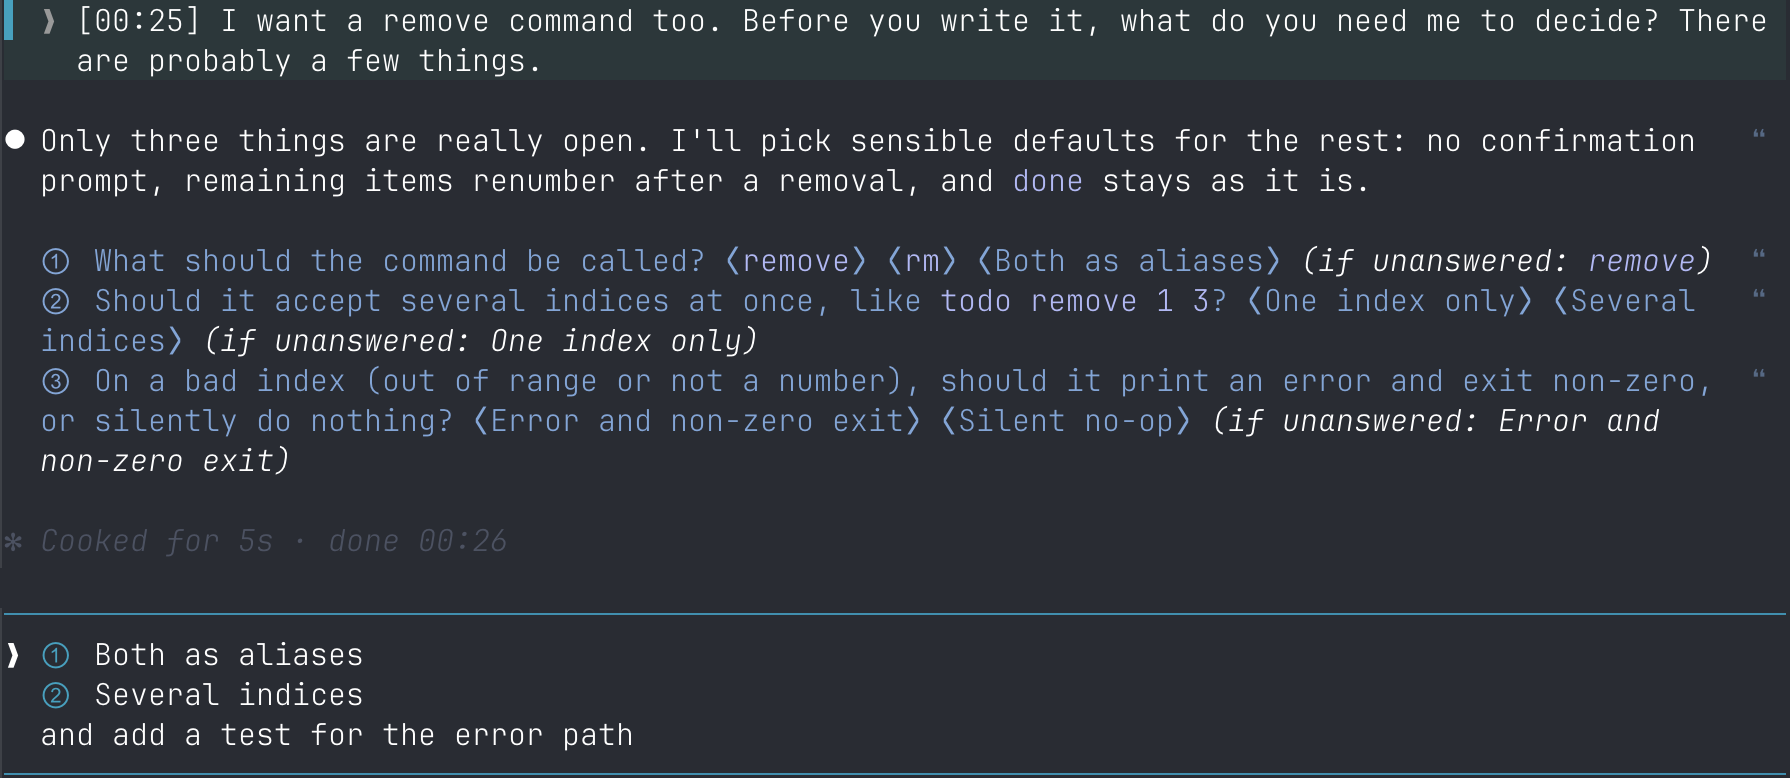
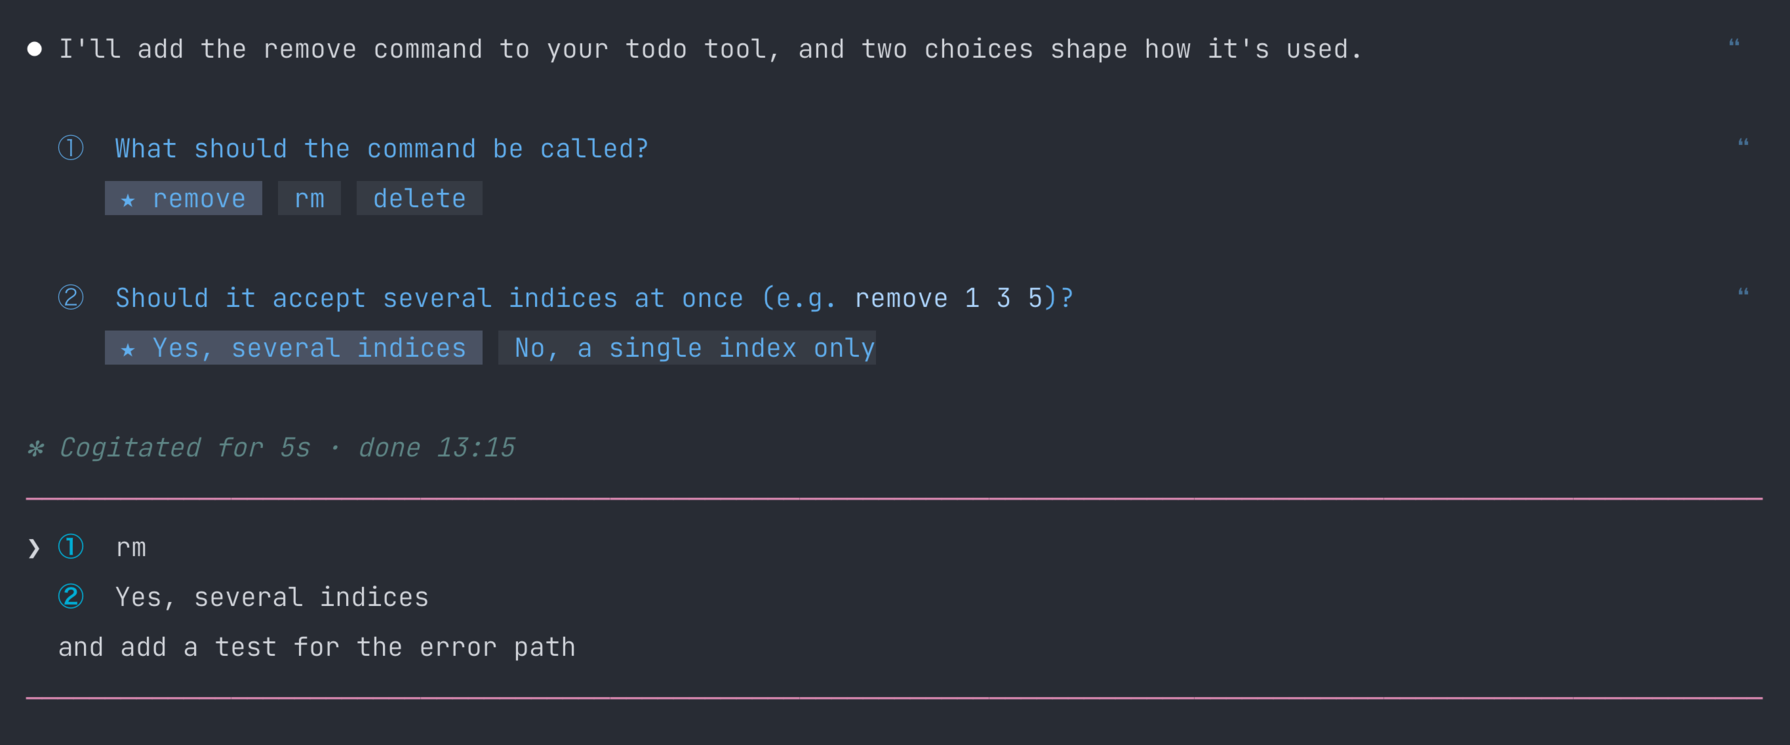
README: new screenshot of alternatives as keys

diff --git a/README.md b/README.md
@@ -29,7 +29,7 @@ Claude's questions become clickable where they appear. Click **①** to open you
 
 **Silence never authorizes anything irreversible.** A question about deleting, pushing, sending, paying or overwriting never gets a default: it needs an explicit answer.
 
-![The same questions numbered with clickable alternatives, and the prompt filled by clicks](img/questions-after.png)
+![Questions numbered, their alternatives as keys, and the prompt filled by clicks](img/questions-after.png)
 
 Everything lands in the prompt as plain text. Edit it, then Enter.
 

diff --git a/README.es.md b/README.es.md
@@ -29,7 +29,7 @@ Las preguntas quedan como enlaces donde aparecen. Clic en **①** abre tu línea
 
 **El silencio nunca autoriza algo irreversible.** Una pregunta sobre borrar, hacer push, enviar, pagar o sobrescribir nunca trae opción recomendada: se contesta explícitamente.
 
-![Las mismas preguntas numeradas con alternativas, y el prompt lleno a clics](img/questions-after.png)
+![Las preguntas numeradas, sus alternativas como teclas, y el prompt lleno a clics](img/questions-after.png)
 
 Todo queda en el prompt como texto. Lo editas y Enter.
 
